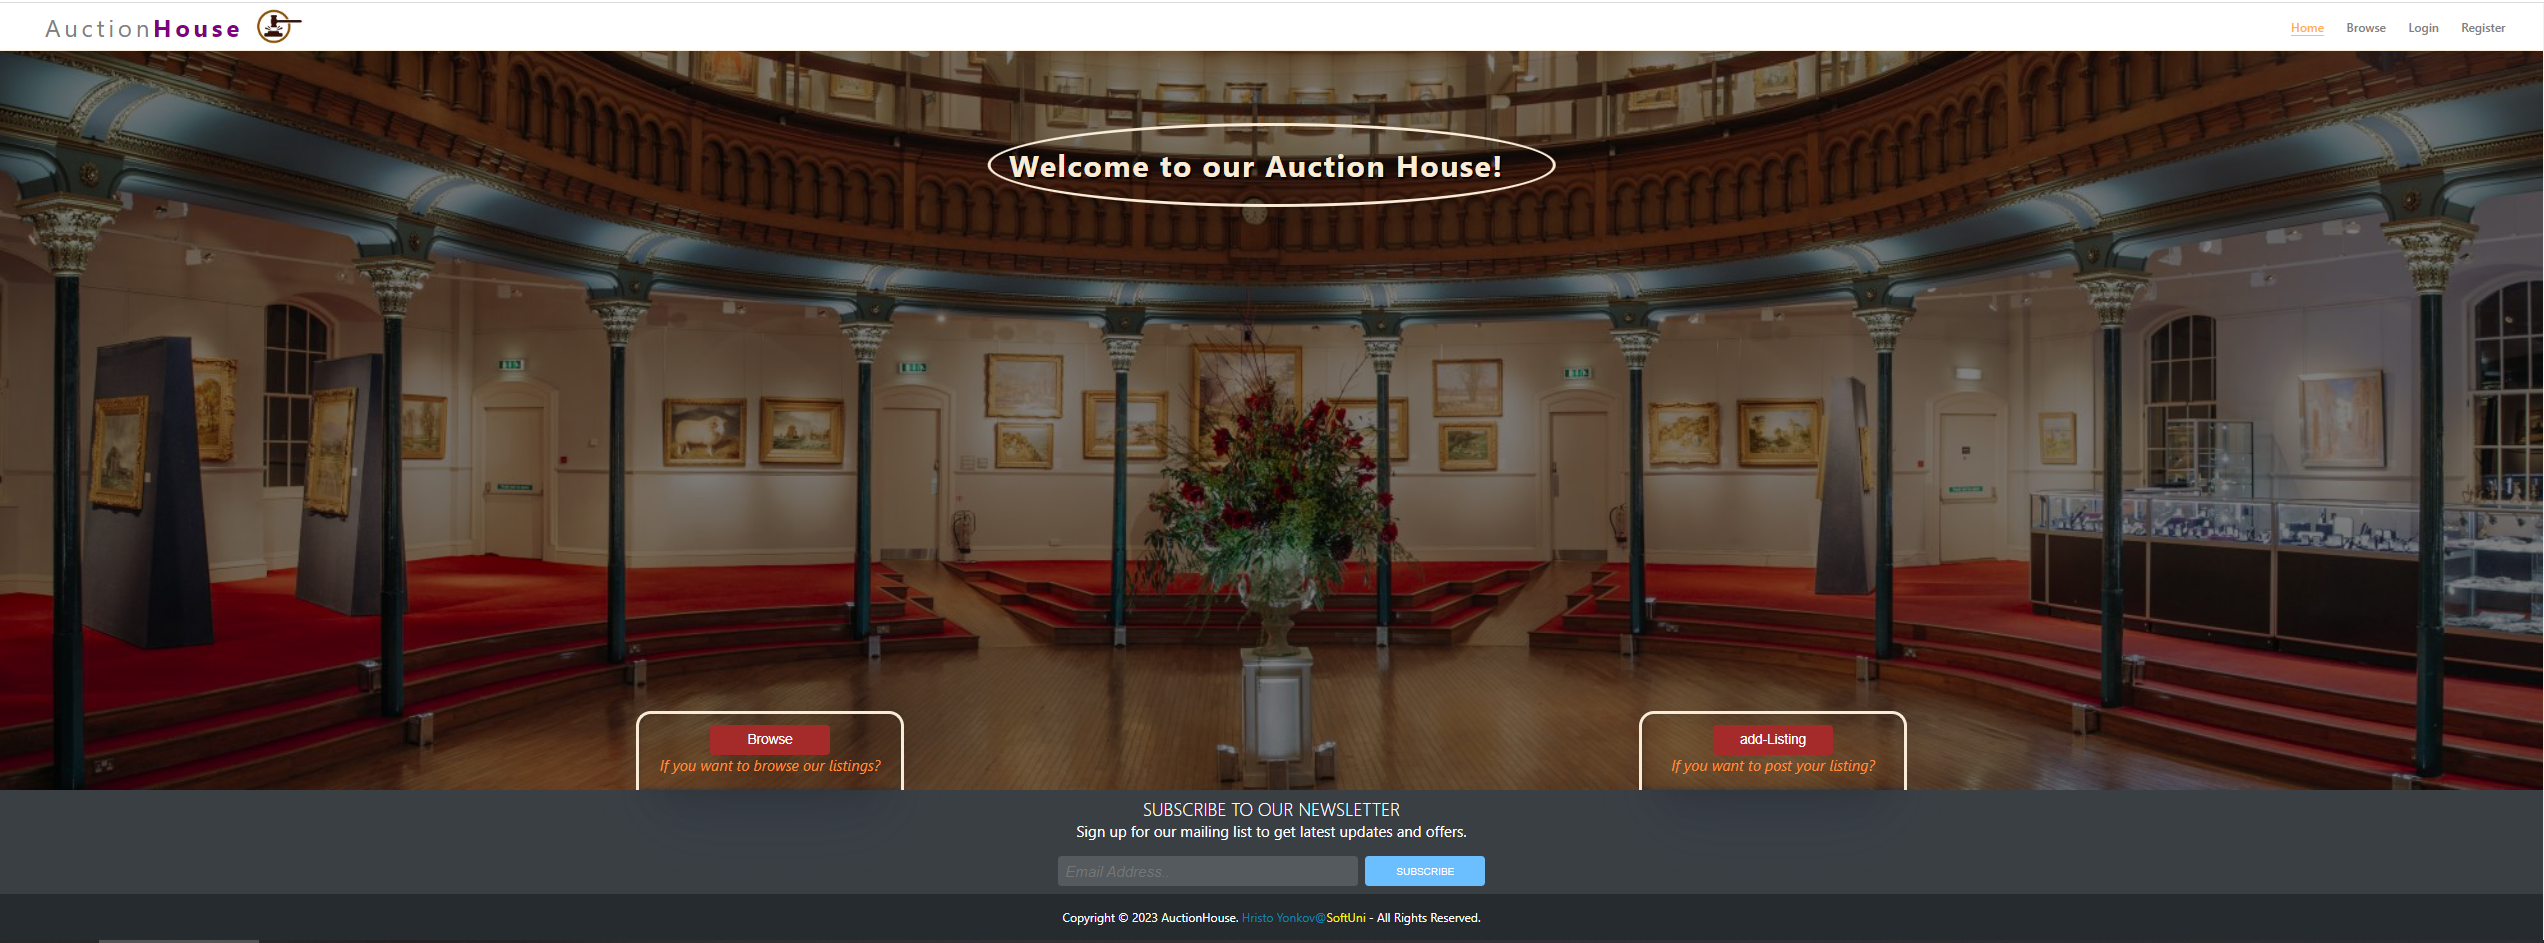
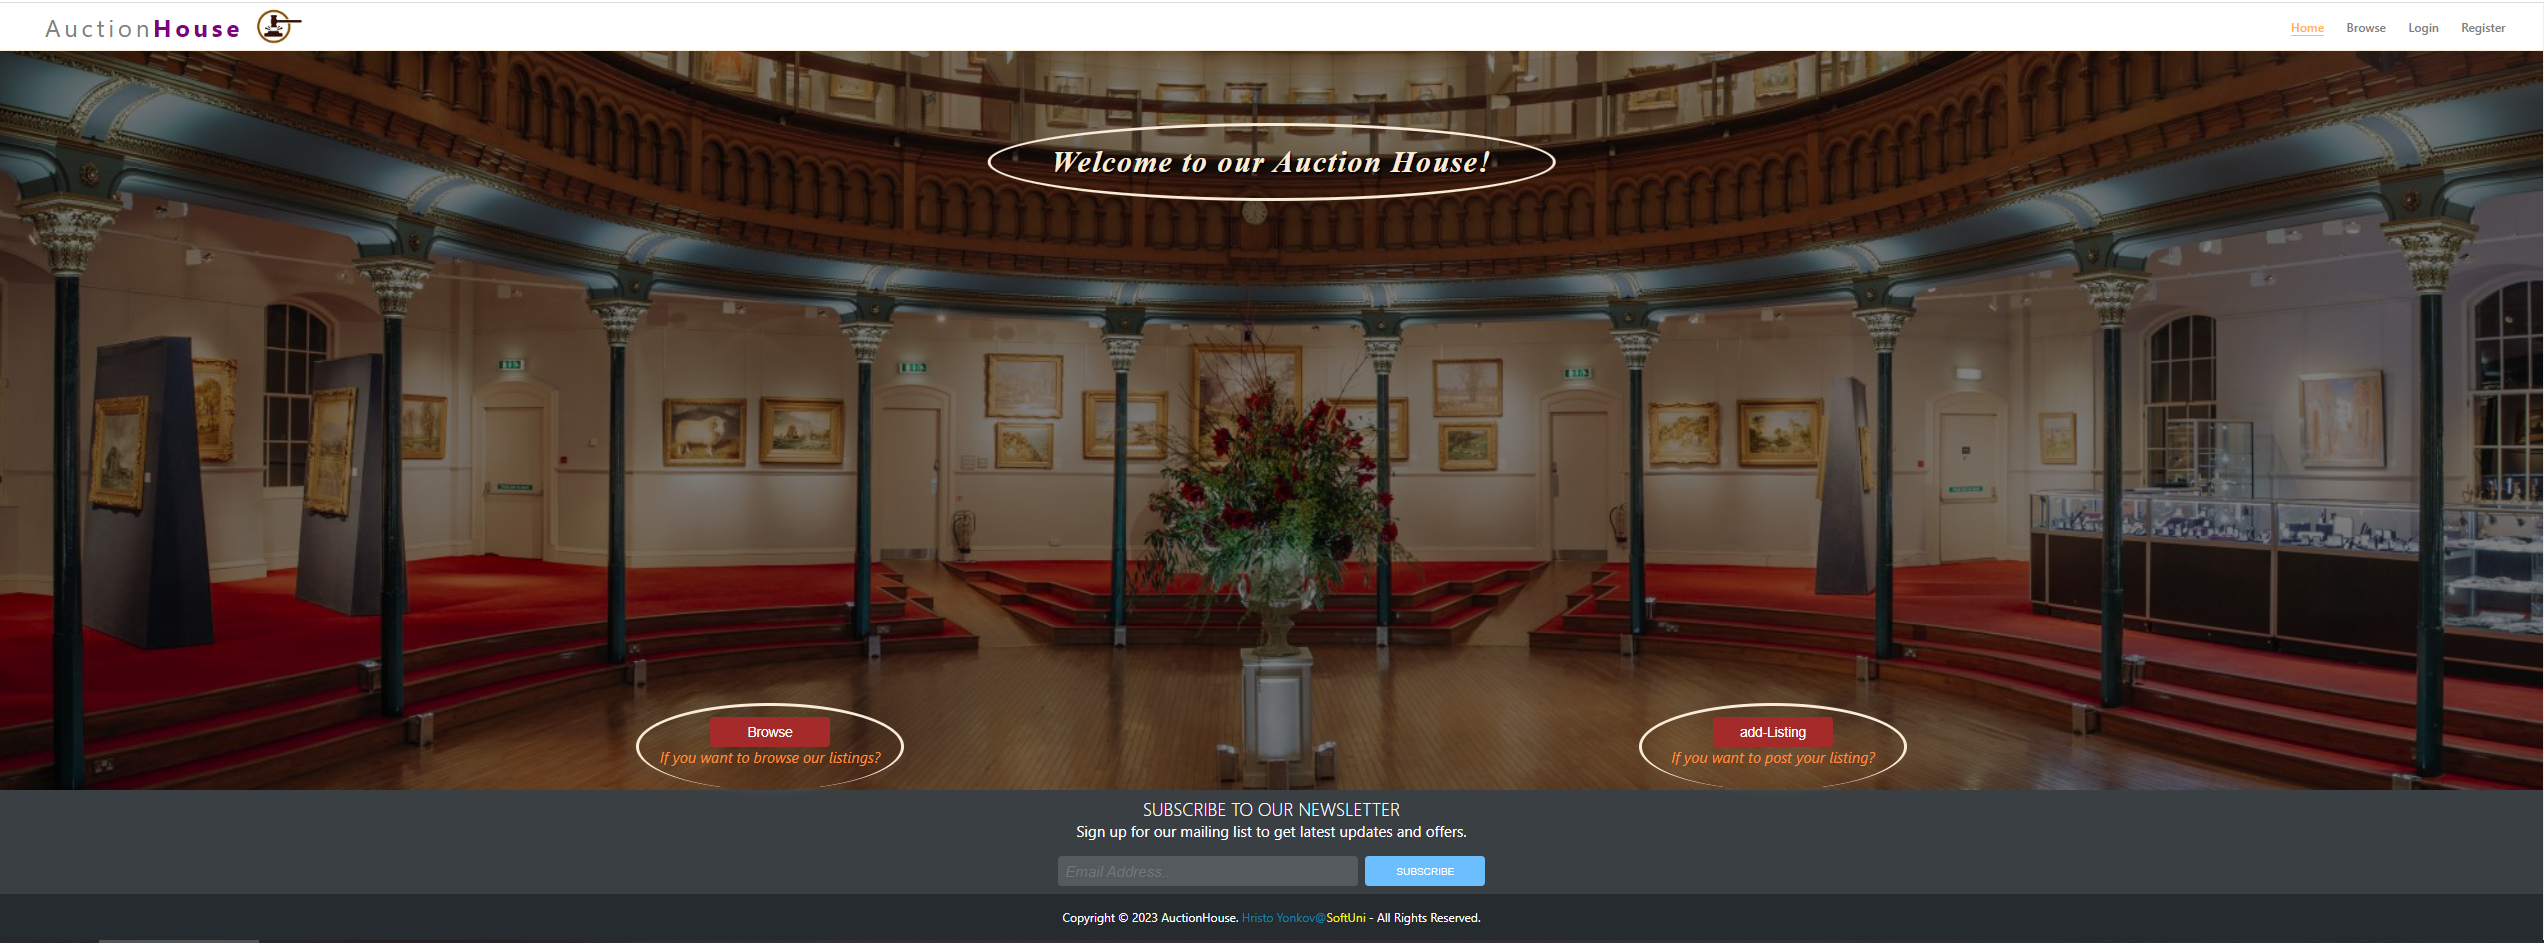
updte css

Changed region(s): [[0.3726, 0.123, 0.6211, 0.246], [0.2484, 0.7381, 0.3726, 0.8303], [0.6521, 0.7381, 0.7453, 0.8303]]

diff --git a/Auction-House/auction-house/src/components/home/Home.css b/Auction-House/auction-house/src/components/home/Home.css
@@ -32,6 +32,9 @@
     left: 50%;
     border: 5px solid antiquewhite;
     transform: translate(-50%);
+    font-style: italic;
+    font-family:'Times New Roman', Times, serif;
+    text-align: center;
 }
 
 h2 {
@@ -61,7 +64,7 @@ h2 {
     color: rgb(255, 141, 59);
     font-size: 20px;
     font-style: italic;
-    margin: 0 0 20px 0;
+    margin: 0 0 30px 0;
 }
 
 .flying-browse {
@@ -76,8 +79,8 @@ h2 {
     border-top: 5px solid antiquewhite;
     border-left: 5px solid antiquewhite;
     border-right: 5px solid antiquewhite;
-    border-radius: 20px 20px 0px 0px;
-    box-shadow: rgba(50, 50, 93, 0.25) 0px 50px 100px -20px, rgba(0, 0, 0, 0.3) 0px 30px 60px -30px, rgba(10, 37, 64, 0.35) 0px -2px 6px 0px inset;
+    border-radius: 50%;
+    box-shadow: rgba(99, 99, 99, 0.2) 0px 2px 8px 0px;
 }
 .flying-create {
     position: absolute;
@@ -91,6 +94,6 @@ h2 {
     border-top: 5px solid antiquewhite;
     border-left: 5px solid antiquewhite;
     border-right: 5px solid antiquewhite;
-    border-radius: 20px 20px 0px 0px;
-    box-shadow: rgba(50, 50, 93, 0.25) 0px 50px 100px -20px, rgba(0, 0, 0, 0.3) 0px 30px 60px -30px, rgba(10, 37, 64, 0.35) 0px -2px 6px 0px inset;
+    border-radius: 50%;
+    box-shadow: rgba(99, 99, 99, 0.2) 0px 2px 8px 0px;
 }
